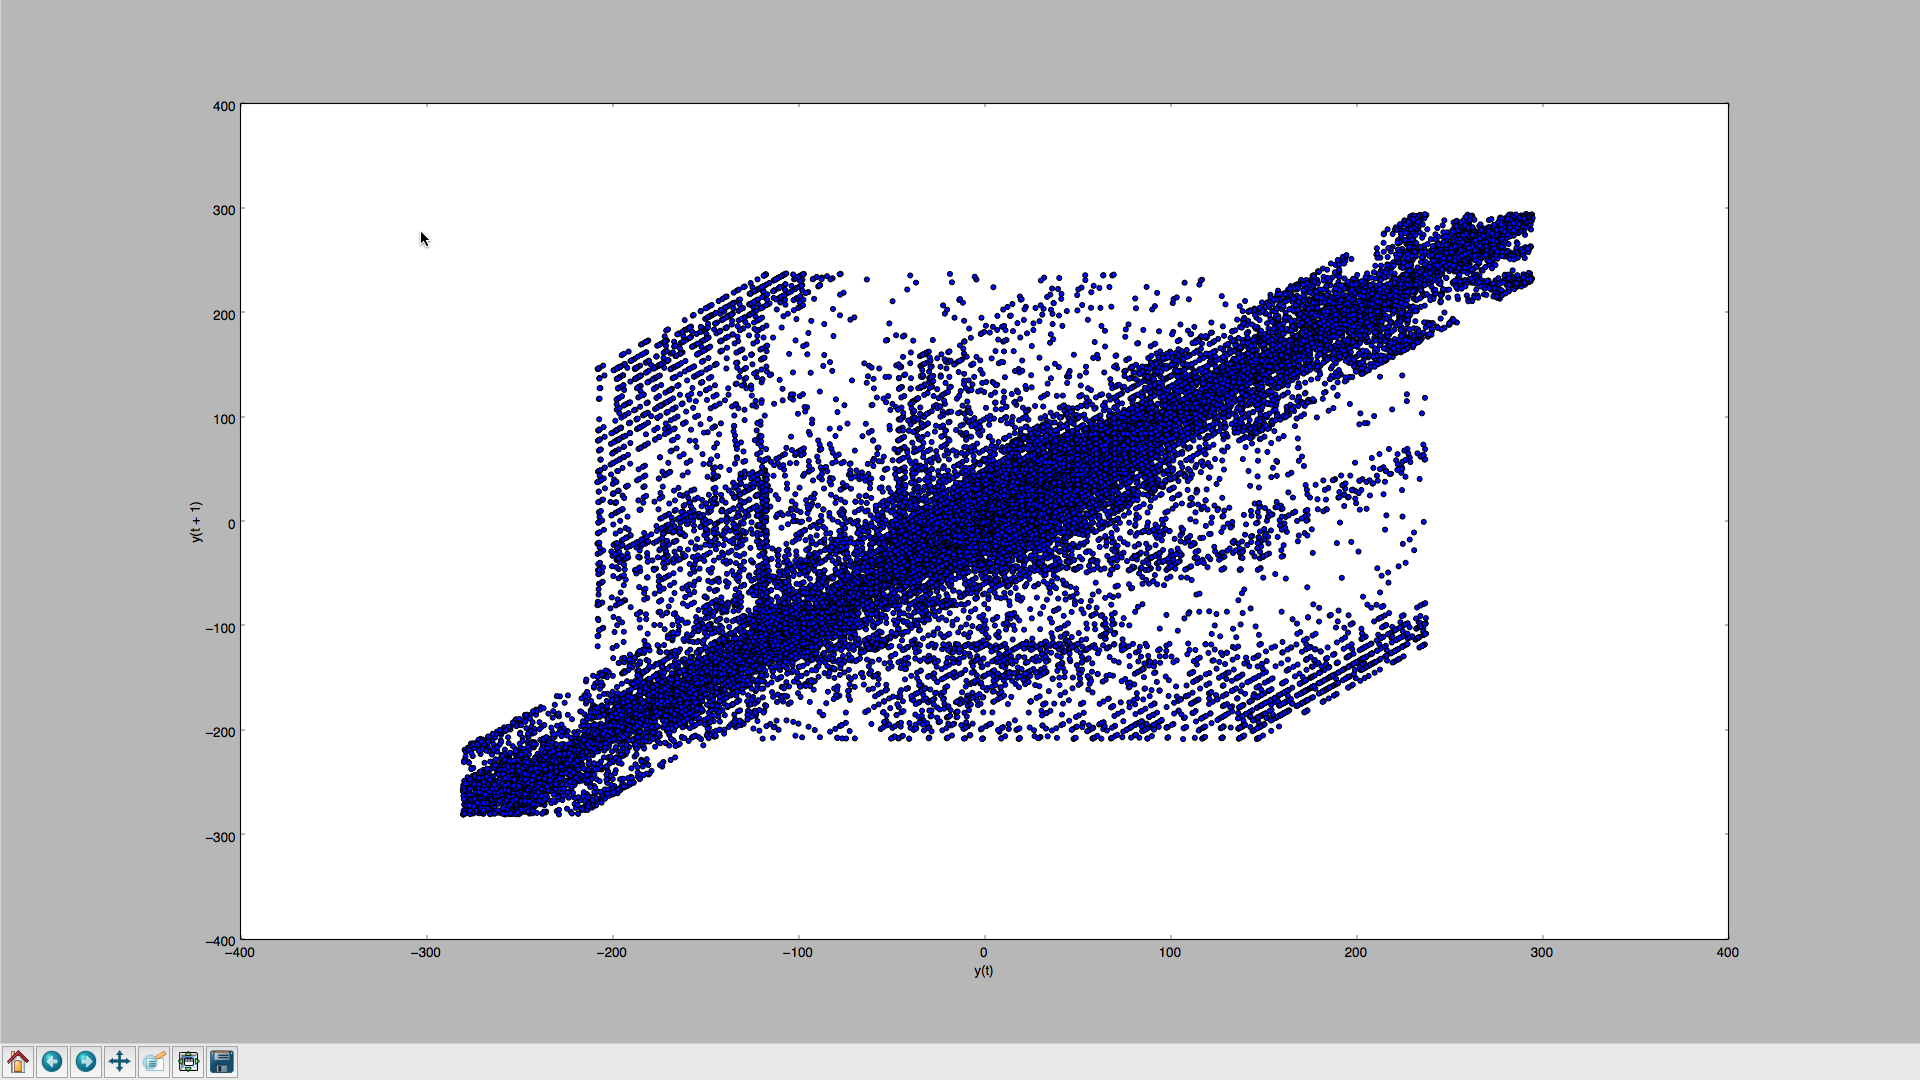
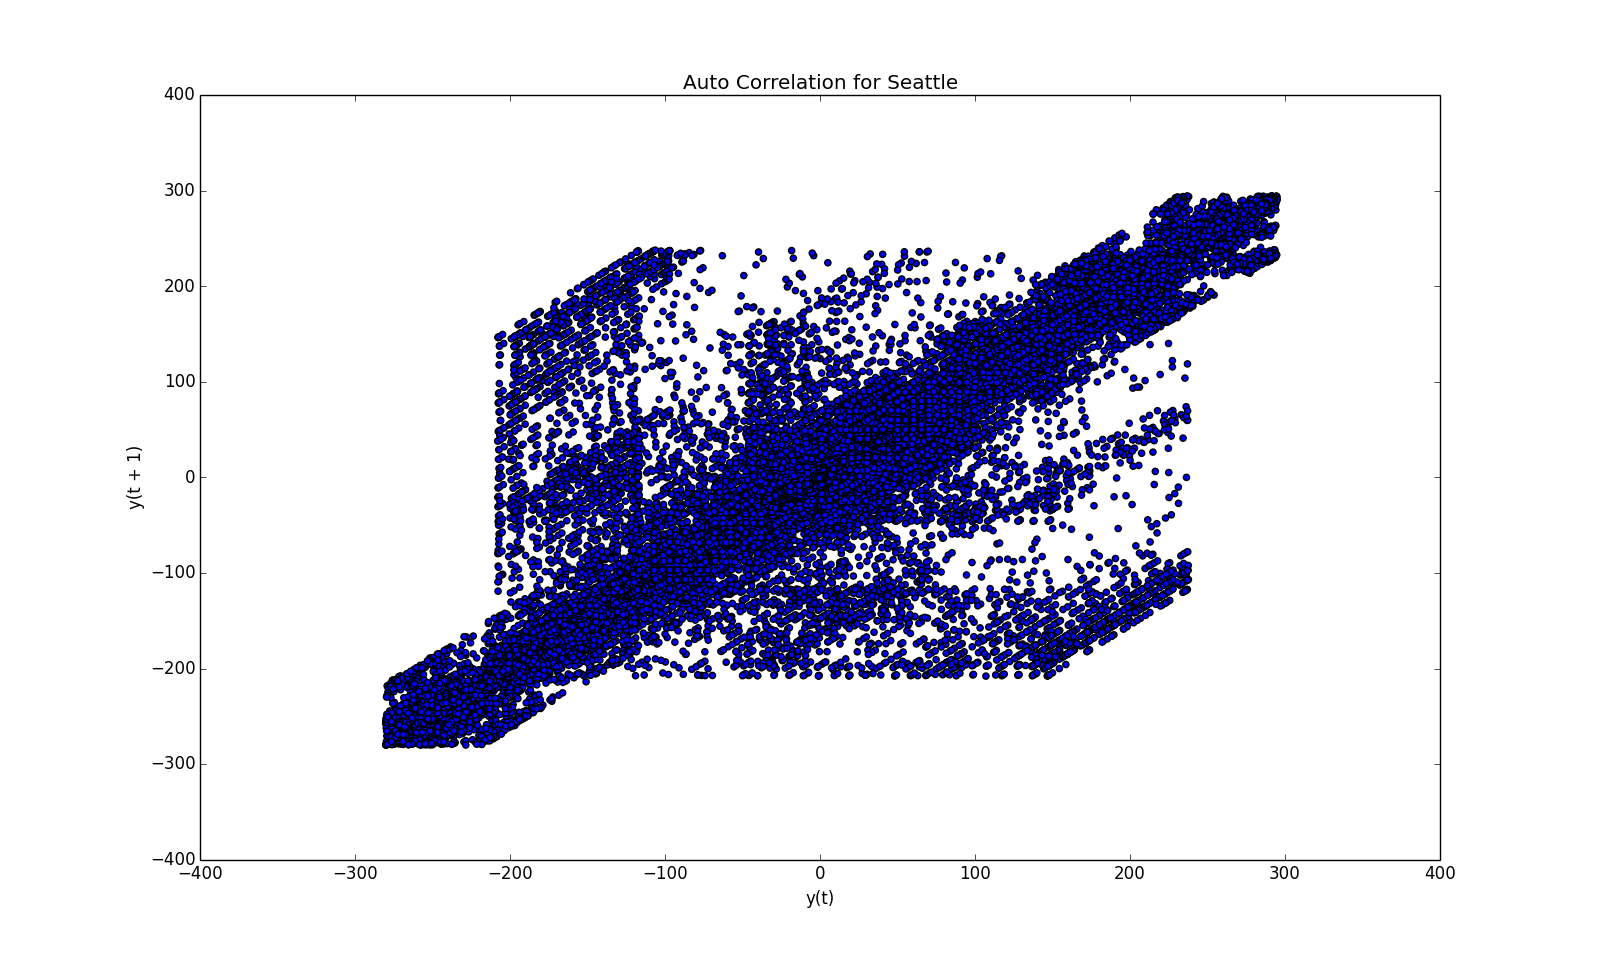
updated images and code for auto correlation and AR model

diff --git a/src/arima/plotting_lag.py b/src/arima/plotting_lag.py
@@ -1,22 +1,24 @@
-from pandas import read_csv
+from pandas import read_csv, Series
 from pandas import datetime
 from pandas import DataFrame
 from matplotlib import pyplot
 from matplotlib.pylab import rcParams
 from pandas.tools.plotting import autocorrelation_plot, lag_plot
-from statsmodels.graphics.tsaplots import plot_acf
+from statsmodels.graphics.tsaplots import plot_acf, plot_pacf
 
 rcParams['figure.figsize'] = 15, 6
 
+
 def parser(dates):
-	return datetime.strptime(dates, '%Y-%m-%d %H')
+    return datetime.strptime(dates, '%Y-%m-%d %H')
+
 
 # read the data in
 feature_SEA = "/Users/ramanathan/Google Drive/Arizona State University/Spring 2017/Statistical Machine Learning/Project/code/WeatherForecastingSML/dataset/feature_CIN.csv"
 series = read_csv(feature_SEA, header=0, parse_dates=[0], index_col=0, squeeze=True, date_parser=parser)
 
-
 ts = series['12']
+
 
 X = DataFrame(ts.values)
 print X.head()
@@ -24,4 +26,14 @@ X.plot()
 pyplot.show()
 
 lag_plot(series)
+title = 'Auto Correlation for Cincinnati'
+pyplot.title(title)
 pyplot.show()
+
+#plot_acf(X, lags=24)
+#pyplot.show()
+
+#plot_pacf(X, lags=24)
+#pyplot.show()
+
+

diff --git a/src/arima/TimeSeriesARModeling.py b/src/arima/TimeSeriesARModeling.py
@@ -53,7 +53,11 @@ print('Test MSE: %.3f' % error)
 
 # plot
 pyplot.plot(test)
-pyplot.plot(predictions, color='red')
+title = 'AR Model Predictions for Cincinnati'
+pyplot.title(title)
+pyplot.xlabel('Hourly Test Data Points (2016)')
+pyplot.ylabel('Temperature (F)')
+pyplot.plot(predictions, color='#ef9058')
 pyplot.show()
 
 # Reference : http://machinelearningmastery.com/autoregression-models-time-series-forecasting-python/
